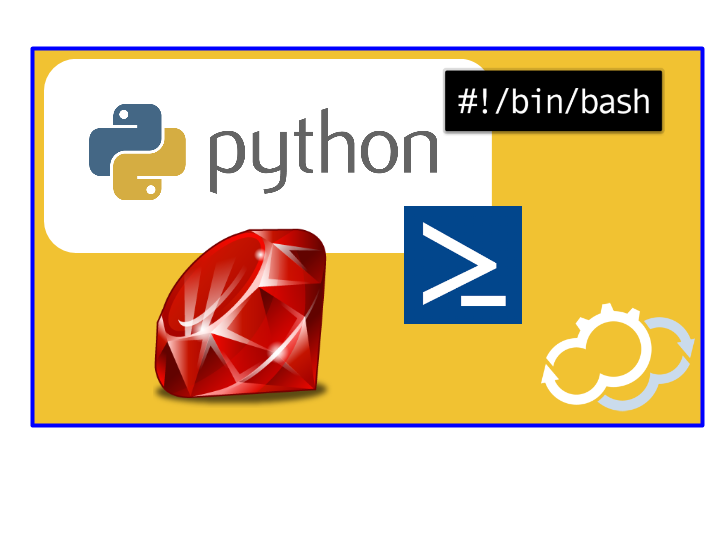
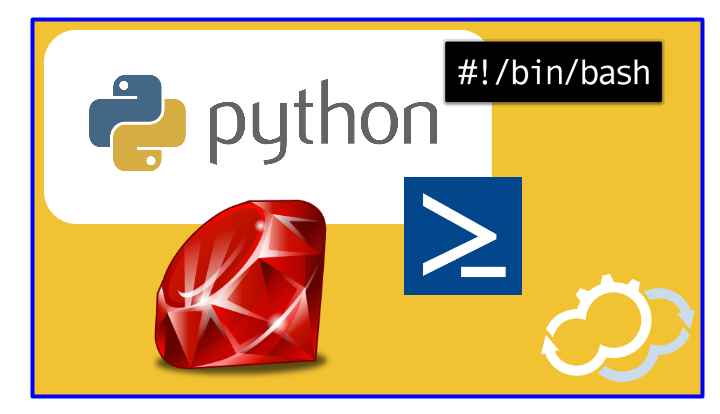
Fixed gist + crop pic

diff --git a/source/_posts/2015-01-26-python-plugin-module-bash-ruby-cloud-cloudify.html b/source/_posts/2015-01-26-python-plugin-module-bash-ruby-cloud-cloudify.html
@@ -51,7 +51,7 @@ tags:
 
   <p>Our <a href="http://getcloudify.org/guide/3.1/dsl-spec-general.html" target="_blank">DSL parser</a> was also extended to make mapping operations to scripts much simpler. Without the extension to the DSL parser, in order to map an operation to a script, you would have to do something like this:</p>
 
-  <p><script src=&quot;https://gist.github.com/shar1z/1969a1349abb1c03317a.js></script></p>
+  <p><script src="https://gist.github.com/shar1z/1969a1349abb1c03317a.js"></script></p>
 
   
 
